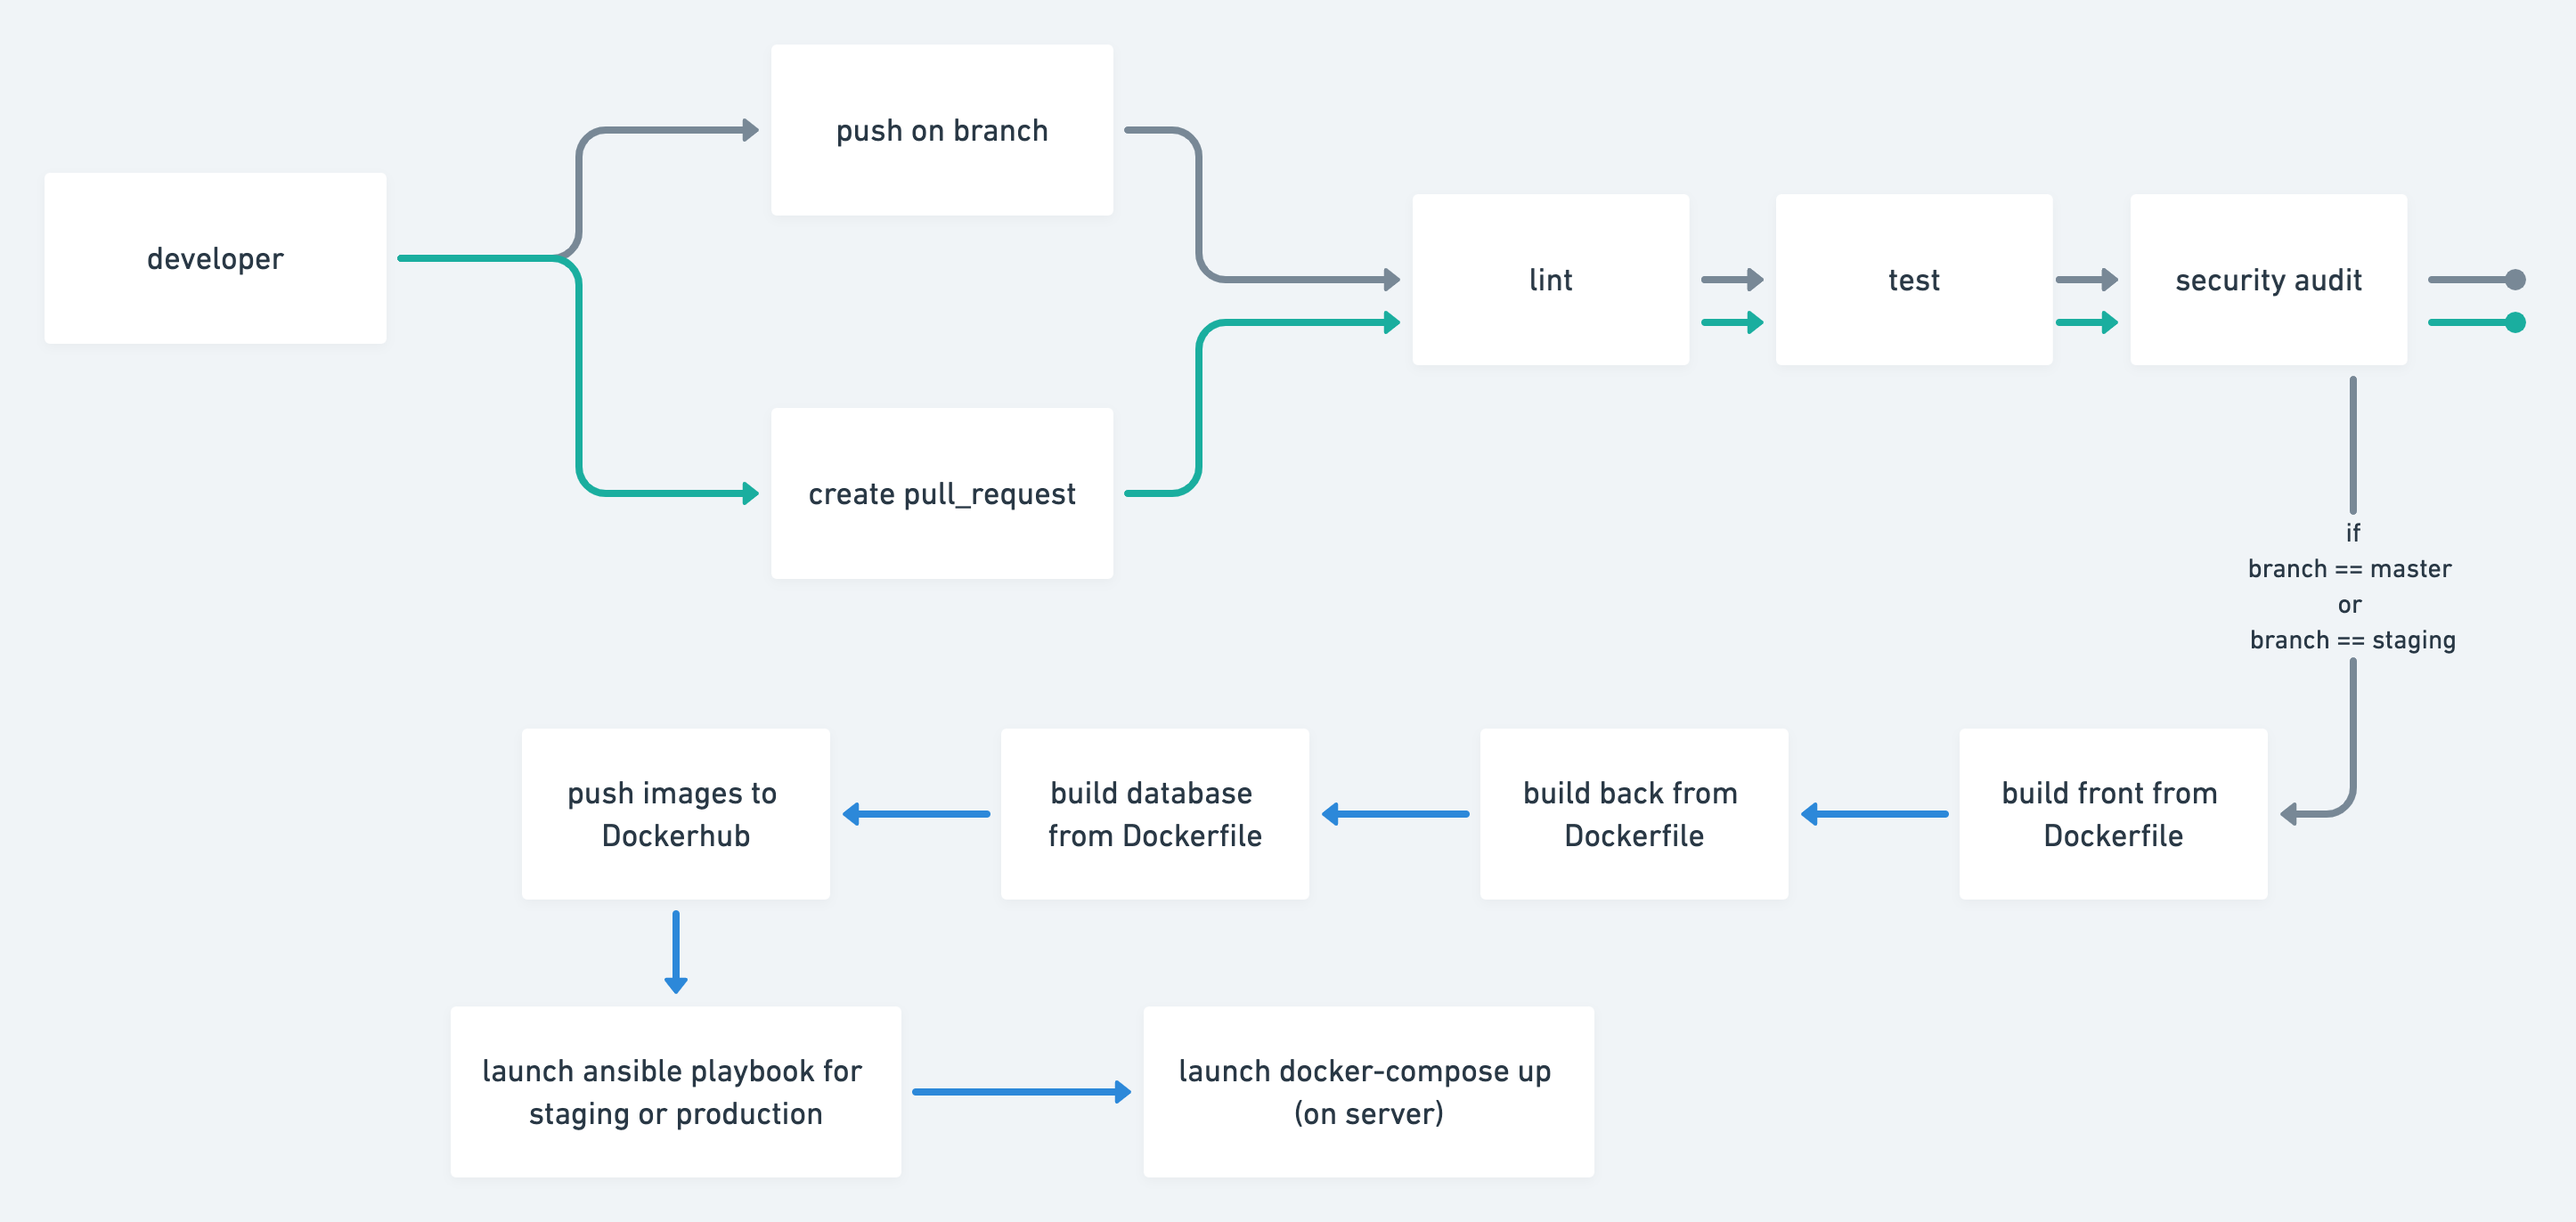
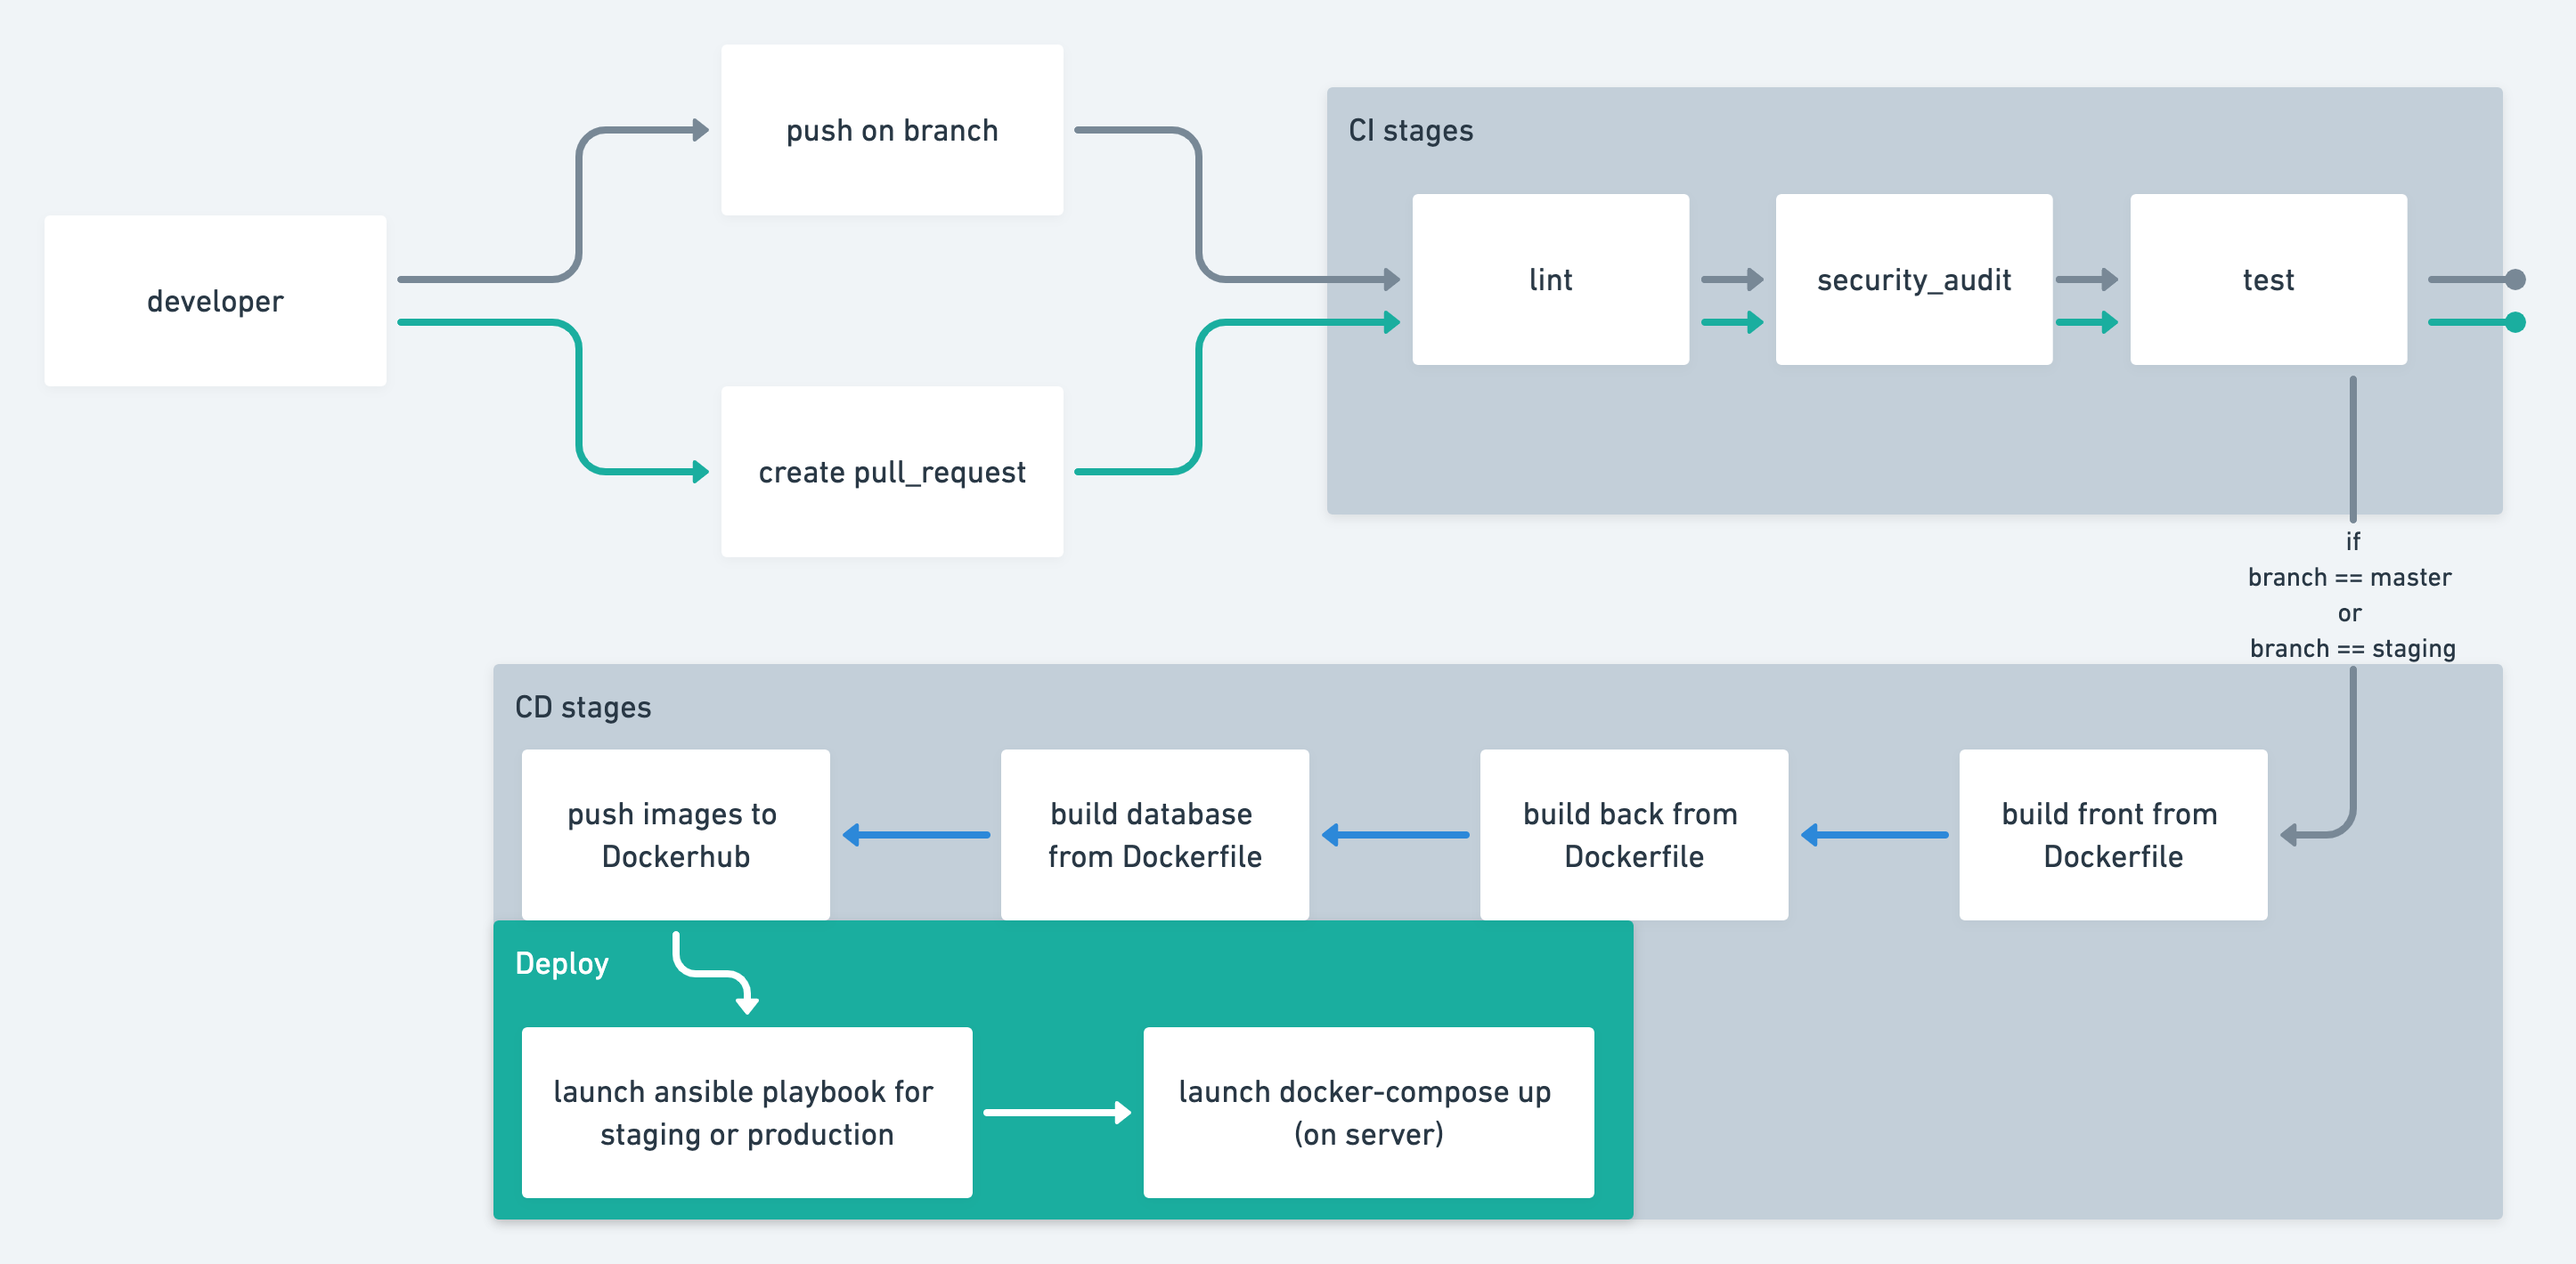
chore: update docs (#7)
* chore: add production vault file (#2)

* fix: db values insert (#4)

* chore: add production vault file

* fix: db values insert

* chore: update docs (#6)

* chore: add production vault file

* chore: add ci/cd

* chore: add docker config

* chore: add db init

* fix: add api connexion

* chore: add ansible configuration

* chore: add front build

* chore: add db & api build

* fix: api entrypoint path

* chore: add pip role

* chore: build in dist dir

* chore: nginx proxy api

* fix: add path to api in production

* chore: add docs

* chore: add ansible in workflow

* chore: use ansible-playbook action

* chore: set inventory file

* chore: fix correct ip

* chore: add environment variables in template

* chore: add production build

* style: add lint

* chore: add audit script

* chore: add ci

* chore: add client tests

* chore: add production vault file (#2)

* fix: db values insert

* chore: update compose file

* docs: update docs

diff --git a/README.md b/README.md
@@ -1,20 +1,26 @@
 # Devops
 
+- [Environnement de production](http://163.172.186.220)  
+- [Environnement de staging](http://163.172.167.248)  
+
 ## Environnement de développement
 Le fichier [`docker-compose`](./docker-compose.yml) placé à la racine du projet ne sert qu'à lancer l'environnement de développement en local.  
-Il est donc normal que le fichier défini des variables d'environnement dites sensibles en clair.  
-
-Le client dispose d'un Dockerfile dédié au **développement** situé dans le dossier [client](./client)  
-Le serveur utilise un Dockerfile dédié au **développement** situé dans le dossier [server](./server)  
+Copier le contenu du fichier [`.env.example`](./.env.example) dans un fichier `.env` avant de lancer la commande: 
+```bash
+$ docker-compose up
+```
+Le client utilise le Dockerfile dédié au **développement** situé dans le dossier [client](./client)  
+Le serveur utilise le Dockerfile dédié au **développement** situé dans le dossier [server](./server)  
 La base de donnée utilise le Dockerfile de **production** situé dans le dossier [containers](./containers)  
 
 ## Environnement de production
 
 Les `Dockerfiles` du client, du serveur et de la base de données sont situés dans le dossier [containers](./containers).  
+Le fichier `docker-compose.yml` utilisé en production est situé dans le dossier `templates` du role ansible `sites` : [./ansible/roles/sites/templates/](./ansible/roles/sites/templates/).  
   
 En production ou en staging :  
-* Le client tourne sur le port 80  et fait tourner une image `nginx` dont la configuration se situe dans le fichier [./client/conf/default.conf](./client/conf/default.conf)
-* Le serveur tourne sur le port 3000 mais il est aussi possible d'y accéder grâce au reverse proxy du client => le port 3000 du serveur est mappé sur la route `/api` on peut donc accéder à l'api depuis le client en faisant une requête sur `/api/`
+* Le client tourne sur le port 80 et fait tourner une image `nginx` dont la configuration se situe dans le fichier [./client/conf/default.conf](./client/conf/default.conf)
+* Le serveur tourne sur le port 3000 mais il est aussi possible d'y accéder grâce au reverse proxy du client; le port 3000 du serveur est mappé sur la route `/api` on peut donc y accéder depuis le client en faisant une requête sur `/api/`
 * La base de données n'est accessible que par le serveur et non publiquement sur le port `3306`
 
 ### Workflow
@@ -23,9 +29,9 @@ En production ou en staging :
 
 À chaque push ou pull-request la CI est lancé.  
 Les stages sont les suivants :
-  * lint
-  * test 
-  * security audit
+  * lint (server)
+  * security audit (server)
+  * test (client)
 
 Si la branche est la master ou la staging le CD est lancé pour build toutes les images à savoir :
   * datatube_client_{production|staging}
@@ -33,7 +39,7 @@ Si la branche est la master ou la staging le CD est lancé pour build toutes les
   * datatube_db_{production|staging}
   
 Les 3 builds sont lancés côté runner.  
-Une fois que c'est fait le playbook ansible correspondant à la branche est lancé.
+Une fois que c'est fait le playbook ansible correspondant à la branche est lancé pour déployer l'application.
 
 ### Hebergement
 À part Github aucun service tiers n'est utilisé pour déployer l'application.   
@@ -56,5 +62,3 @@ et 1 role [`sites`](./ansible/roles/sites) pour lancer les containers via `docke
 * [ ] Gérer toute la partie automation sur une instance master
 
 Toute reco est la bienvenue, vous pouvez ouvrir une PR :raised_hands:
-
-
